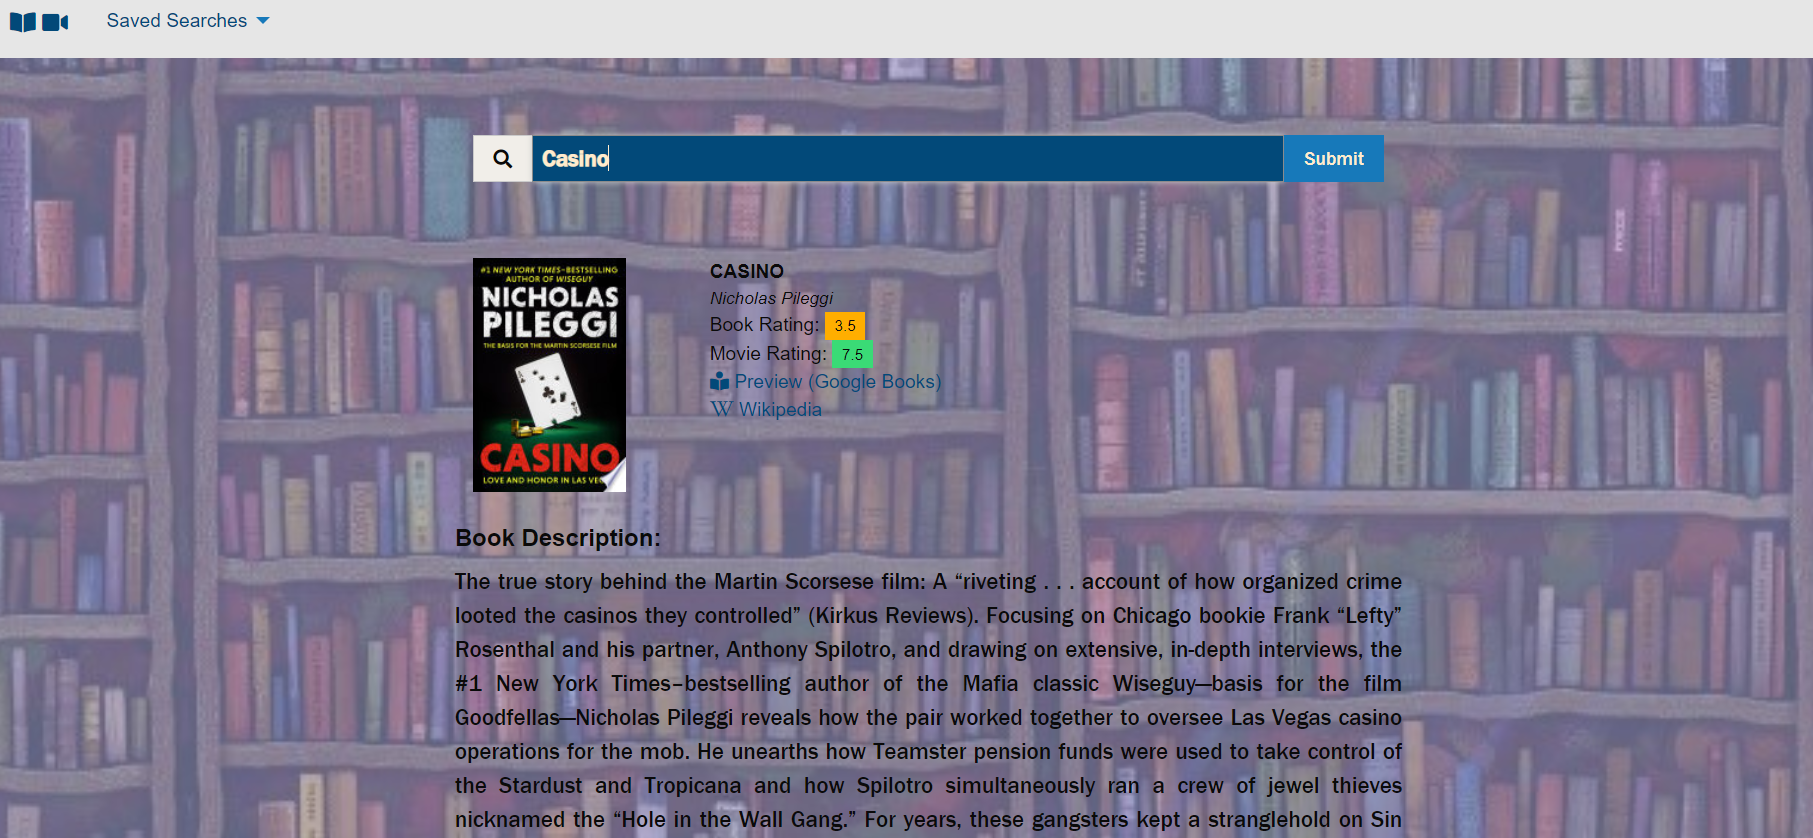
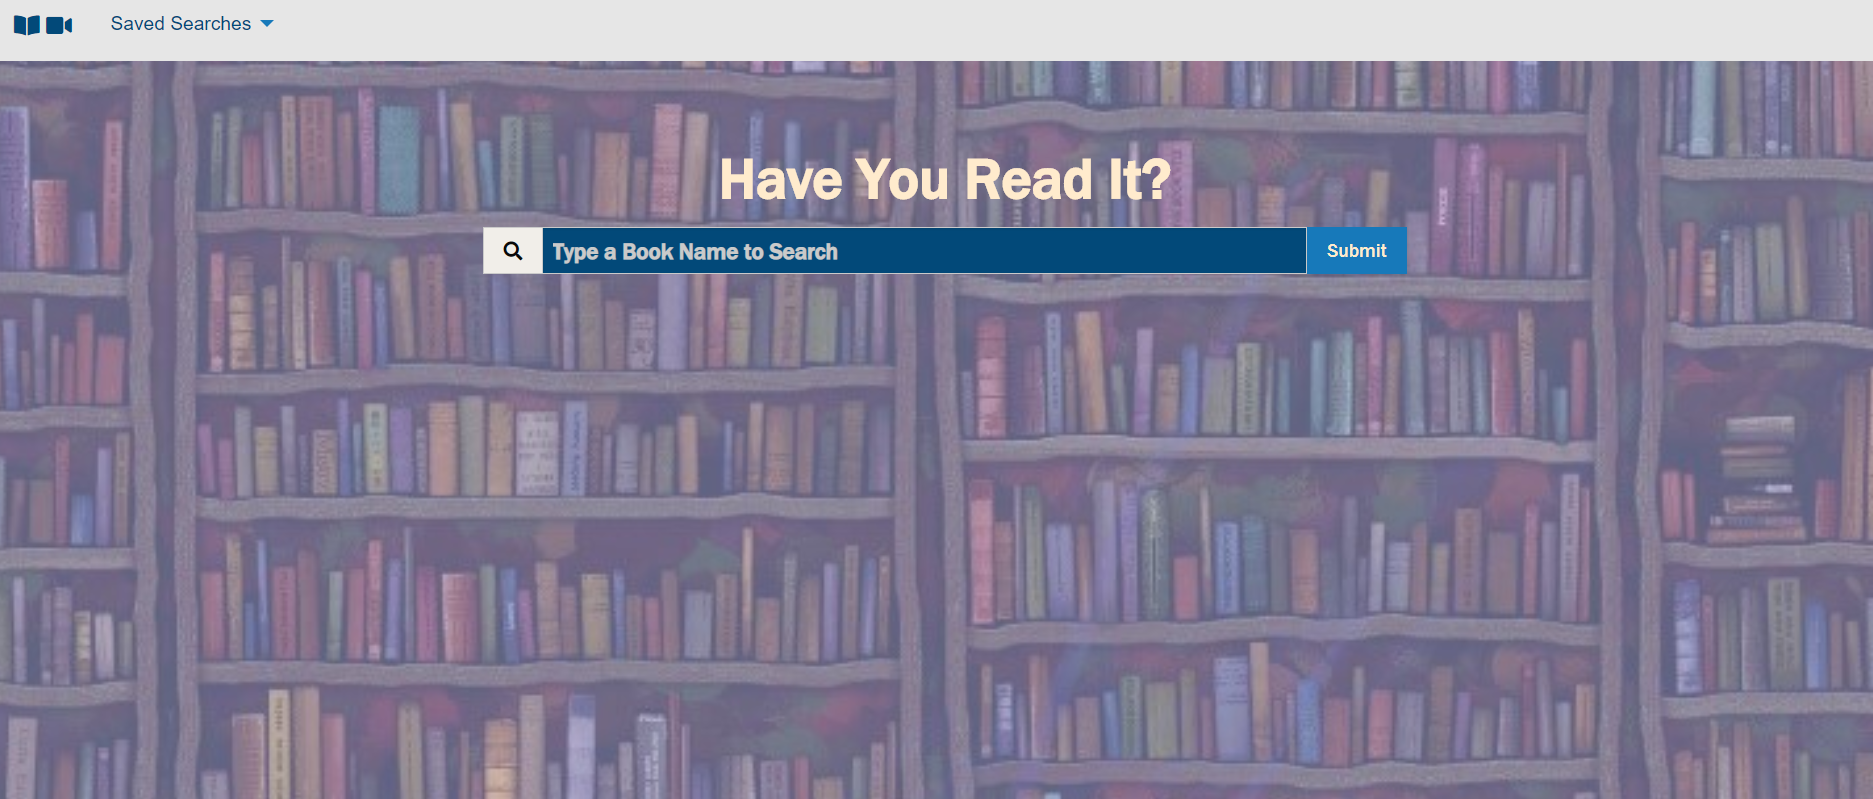
Add files via upload

diff --git a/assets/css/style.css b/assets/css/style.css
@@ -12,6 +12,13 @@ a {
 #search-input {
     background-color: #024979;
 }
+h1 {
+    color: blanchedalmond;
+    font-weight: bold;
+    font-family: 'Franklin Gothic Medium', 'Arial Narrow', Arial, sans-serif;
+    font-size: 3em;
+    text-align: center;
+}
 input[type=text] {
     color: blanchedalmond;
     font-weight: bold;
@@ -90,4 +97,15 @@ p {
 }
 .button:hover {
     background-color: #43ac6a;
+}
+@media only screen and (max-width: 800px) {
+
+    .grid-container {
+        width: 80%;
+        margin-top: 4em;
+    }
+    h1 {
+        font-size: 2em;
+
+    }
 }

diff --git a/assets/js/script.js b/assets/js/script.js
@@ -92,6 +92,7 @@ var runTMDBSearch = (event => {
 // Run Taste Dive API https://tastedive.com/read/api
 var runTasteDive = (event => {
     searchTerm = $("#search-input").val();
+    // cors-anywhere solves cors issue
     let tasteDriveFetch = "https://cors-anywhere.herokuapp.com/" + "https://tastedive.com/api/similar?q=" + searchTerm +"&verbose=1" + "&k=" + tasteDiveAPI;
 
     fetch(tasteDriveFetch)

diff --git a/index.html b/index.html
@@ -48,6 +48,7 @@
 
     <!-- Submit Form -->
     <div class="grid-container fluid">
+        <h1>Have You Read It?</h1>
         <div class="input-group">
             <!-- Search Label with Magnifying Glass -->
             <span class="input-group-label"><i class="fas fa-search"></i></span>
